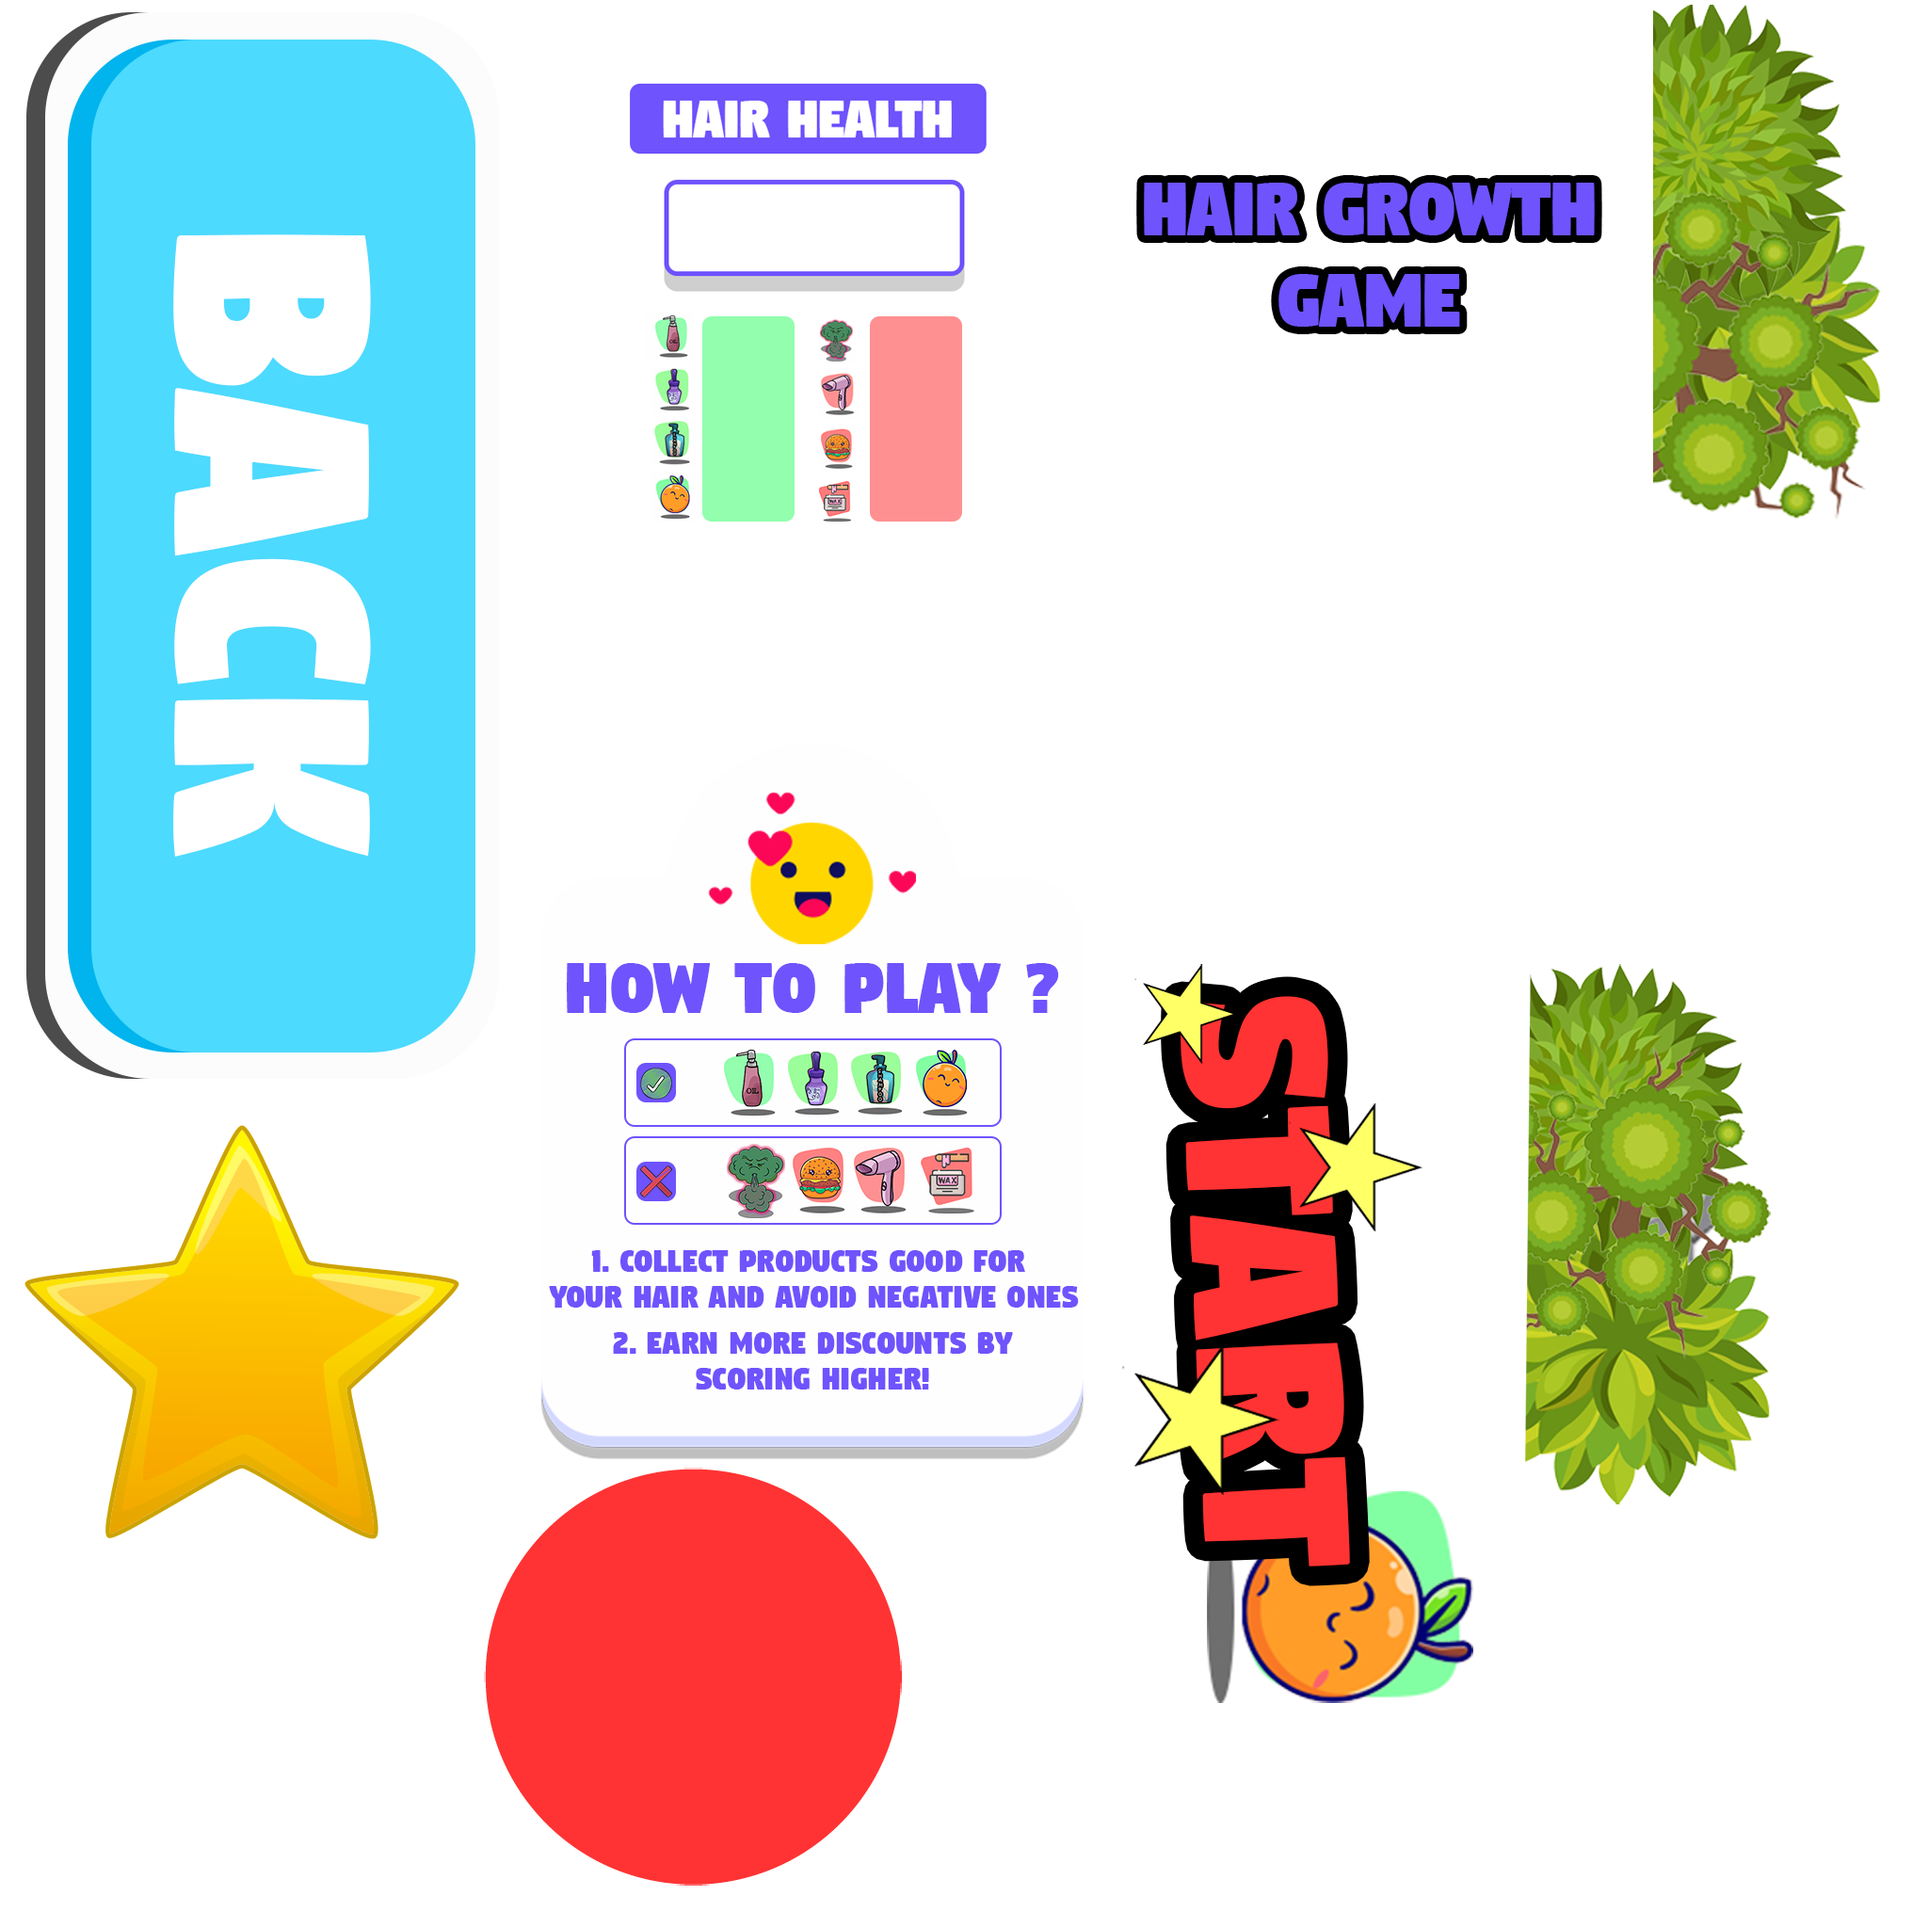
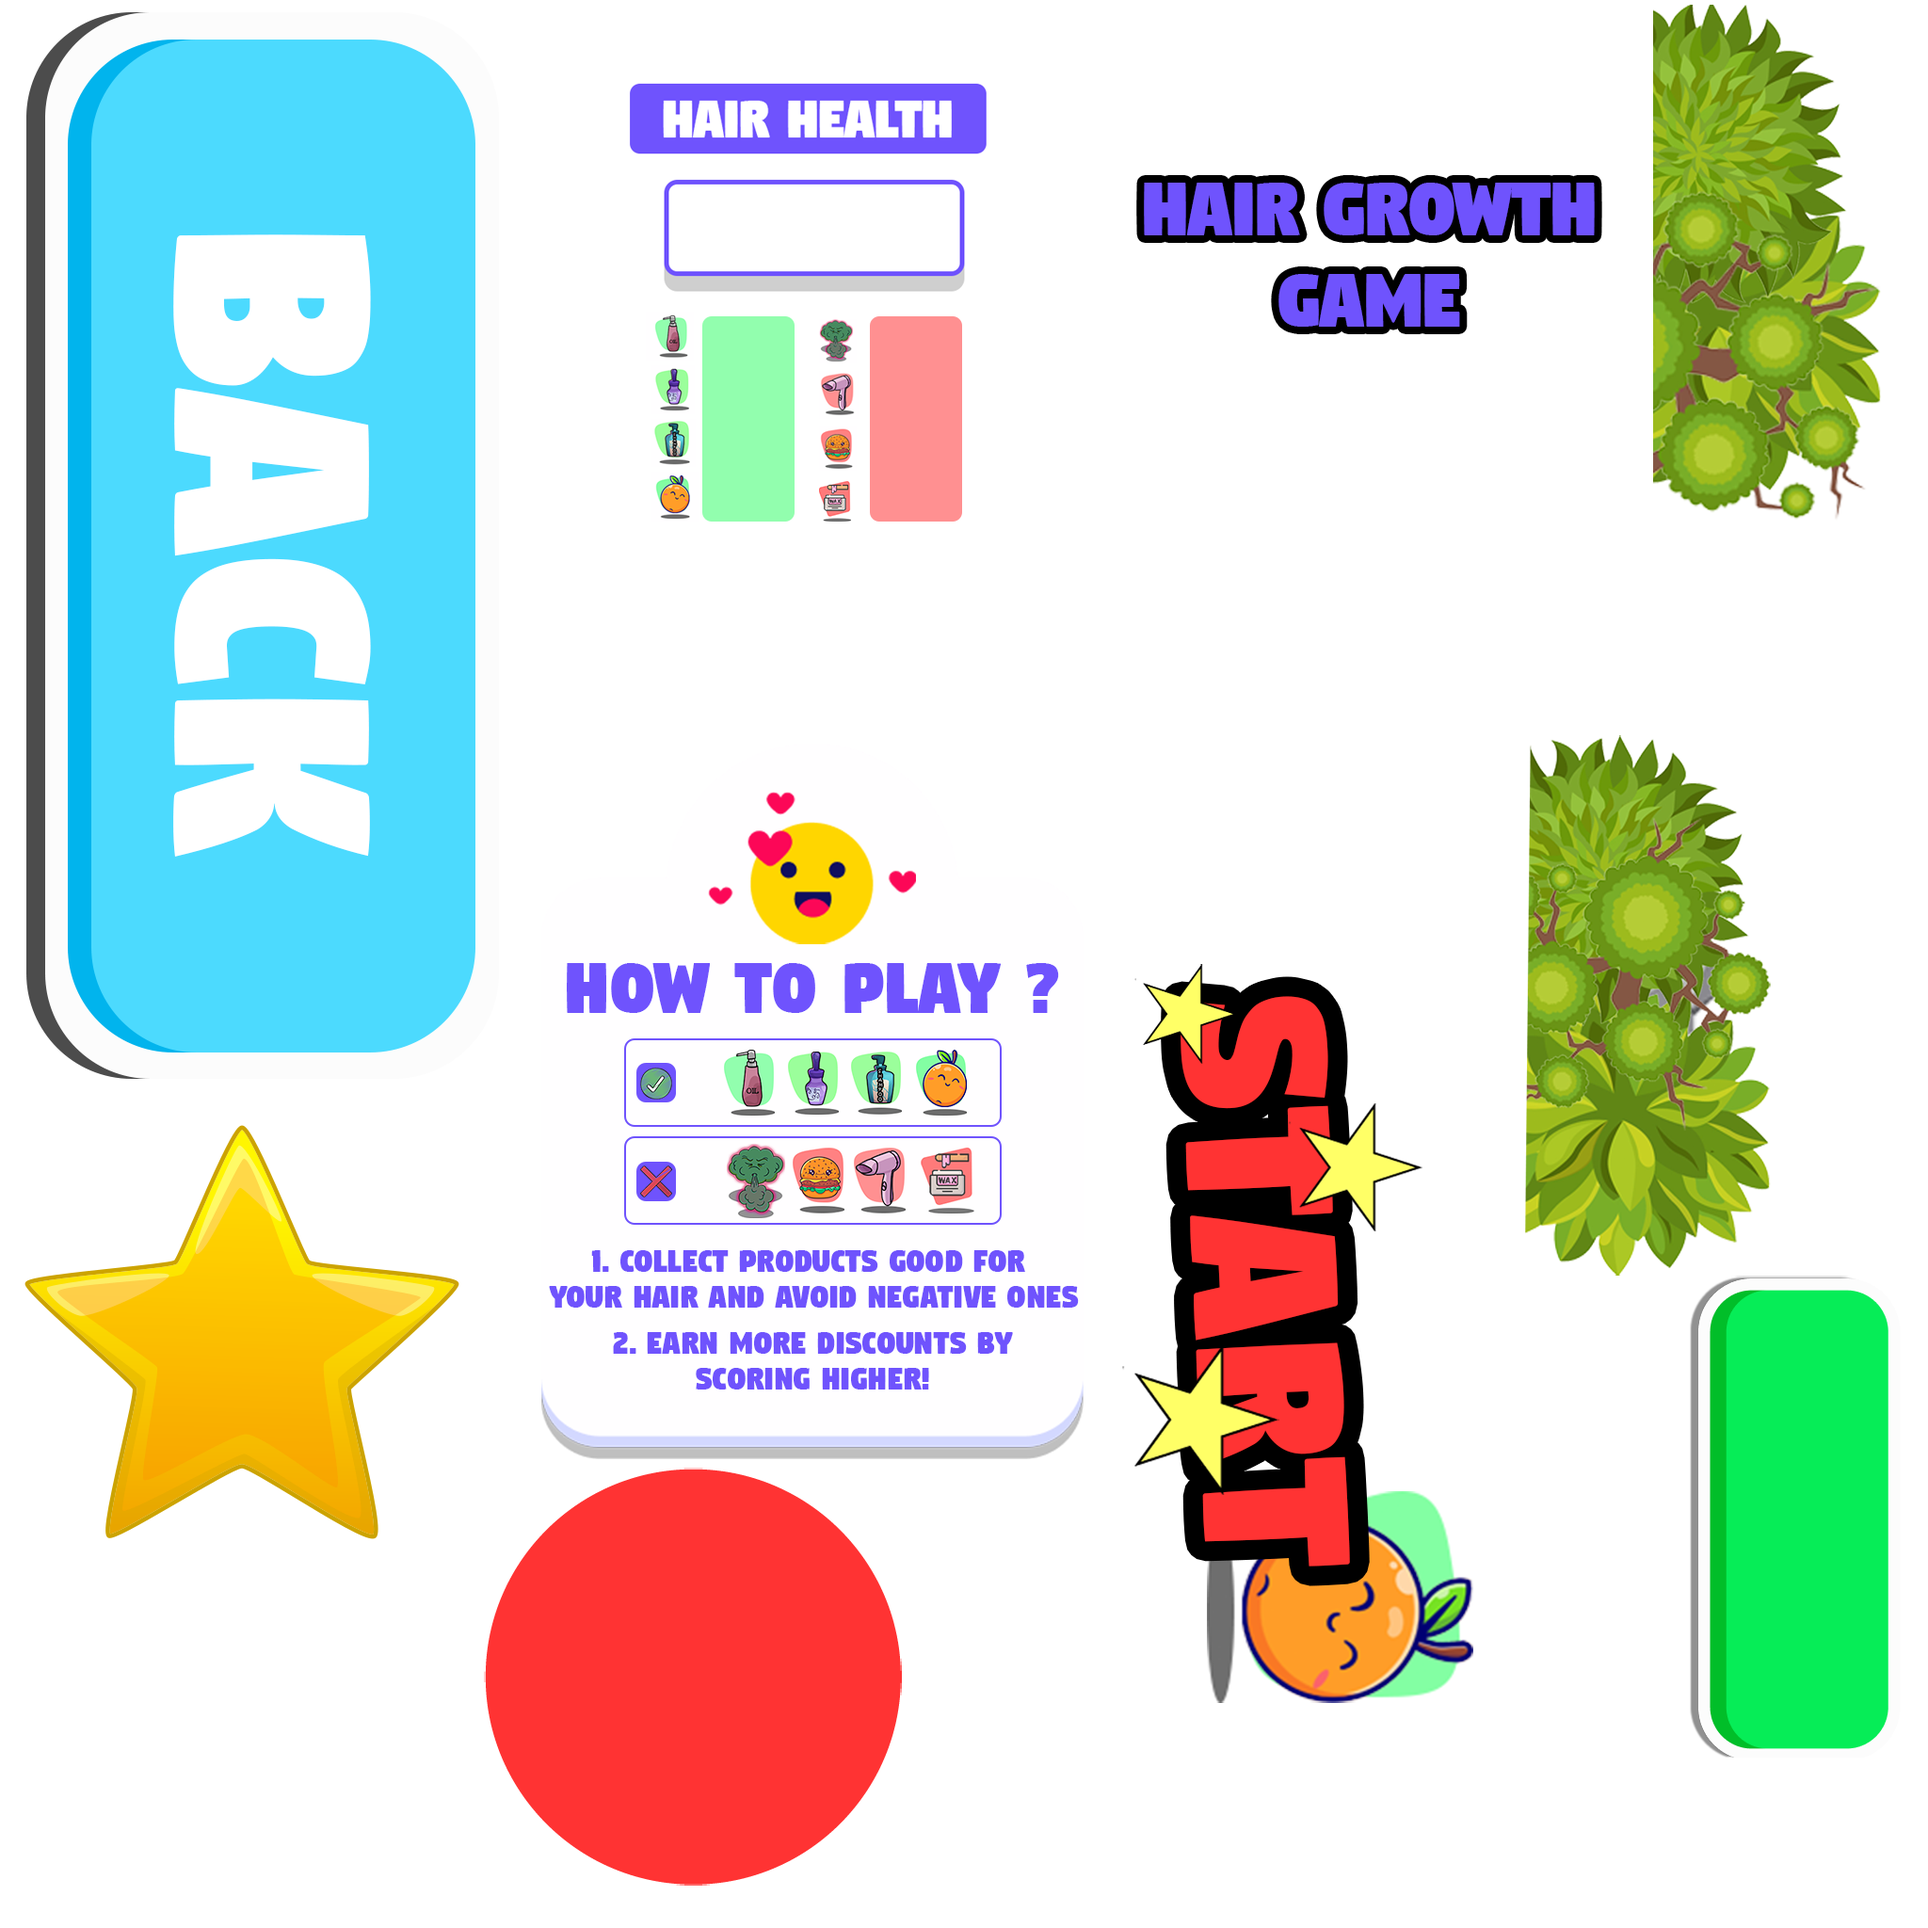
Add files via upload

Changed region(s): [[0.7812, 0.375, 1.0, 0.9062]]

diff --git a/scripts/c3runtime.js b/scripts/c3runtime.js
@@ -1552,17 +1552,20 @@ self.C3_ExpressionFuncs = [
 			const v0 = p._GetNode(0).GetVar();
 			const v1 = p._GetNode(1).GetVar();
 			const v2 = p._GetNode(2).GetVar();
-			return () => (and((and((("{\"player_id\":\"" + v0.GetValue()) + "\",\"score\":"), v1.GetValue()) + ",\"rating\":"), v2.GetValue()) + "}");
+			const v3 = p._GetNode(3).GetVar();
+			return () => (and((and((and((("{\"player_id\":\"" + v0.GetValue()) + "\",\"score\":"), v1.GetValue()) + ",\"rating\":"), v2.GetValue()) + ",\"discount\":"), v3.GetValue()) + "}");
 		},
 		() => "PATCH",
 		p => {
-			const v0 = p._GetNode(0).GetVar();
-			const v1 = p._GetNode(1).GetVar();
-			return () => ((and("Sending score: ", v0.GetValue()) + " email: ") + v1.GetValue());
-		},
-		p => {
 			const f0 = p._GetNode(0).GetBoundMethod();
 			return () => ("Data" + f0());
+		},
+		p => {
+			const v0 = p._GetNode(0).GetVar();
+			const v1 = p._GetNode(1).GetVar();
+			const v2 = p._GetNode(2).GetVar();
+			const v3 = p._GetNode(3).GetVar();
+			return () => and((and((((and("Sending score: ", v0.GetValue()) + " | email: ") + v1.GetValue()) + " | rating: "), v2.GetValue()) + " | discount: "), v3.GetValue());
 		},
 		() => "Full",
 		() => "Empty",
@@ -1570,6 +1573,11 @@ self.C3_ExpressionFuncs = [
 			const n0 = p._GetNode(0);
 			return () => (n0.ExpObject() + 50);
 		},
+		() => "border",
+		() => "3px solid  yellow",
+		() => "3px solid  transparent",
+		() => "background",
+		() => "transparent",
 		() => "submit_user",
 		() => "https://ubuntu.tail2124eb.ts.net/g2/submit",
 		p => {
@@ -1582,9 +1590,9 @@ self.C3_ExpressionFuncs = [
 		p => {
 			const f0 = p._GetNode(0).GetBoundMethod();
 			const n1 = p._GetNode(1);
-			return () => f0(n1.ExpObject(), "@");
+			return () => f0(n1.ExpObject(), 10);
 		},
-		() => -1
+		() => "@gmail.com"
 ];
 
 

diff --git a/scripts/objRefTable.js b/scripts/objRefTable.js
@@ -112,11 +112,16 @@ self.C3_GetObjectRefTable = function () {
 		C3.Plugins.AJAX.Acts.Post,
 		C3.Plugins.Browser.Acts.ConsoleLog,
 		C3.Plugins.System.Cnds.ForEach,
+		C3.Plugins.TextBox.Acts.SetCSSStyle,
+		C3.Plugins.Button.Acts.SetCSSStyle,
 		C3.Plugins.Button.Cnds.OnClicked,
 		C3.Plugins.TextBox.Exps.Text,
 		C3.Plugins.AJAX.Cnds.OnComplete,
 		C3.Plugins.Button.Acts.SetEnabled,
-		C3.Plugins.System.Exps.find
+		C3.Plugins.TextBox.Acts.SetText,
+		C3.Plugins.System.Exps.left,
+		C3.Plugins.System.Exps.len,
+		C3.Plugins.System.Exps.right
 	];
 };
 self.C3_JsPropNameTable = [
@@ -212,6 +217,10 @@ self.C3_JsPropNameTable = [
 	{Submit: 0},
 	{StarID: 0},
 	{Star: 0},
+	{Text2: 0},
+	{Text4: 0},
+	{Submit_2: 0},
+	{Submit_user: 0},
 	{TFamily: 0},
 	{currentTime: 0},
 	{Email: 0},
@@ -219,7 +228,6 @@ self.C3_JsPropNameTable = [
 	{PhoneNumber: 0},
 	{MongoId: 0},
 	{showCountdown: 0},
-	{FinalScore: 0},
 	{SelectedRating: 0},
 	{countdownTime: 0},
 	{Form: 0},
@@ -305,5 +313,9 @@ self.InstanceType = {
 	Phone: class extends self.ITextInputInstance {},
 	Submit: class extends self.IButtonInstance {},
 	Star: class extends self.ISpriteInstance {},
+	Text2: class extends self.ITextInstance {},
+	Text4: class extends self.ITextInstance {},
+	Submit_2: class extends self.ISpriteInstance {},
+	Submit_user: class extends self.ITextInstance {},
 	TFamily: class extends self.ISpriteInstance {}
 }
